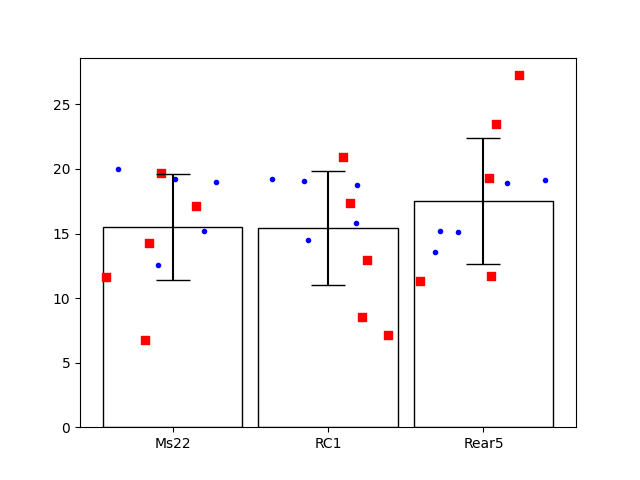
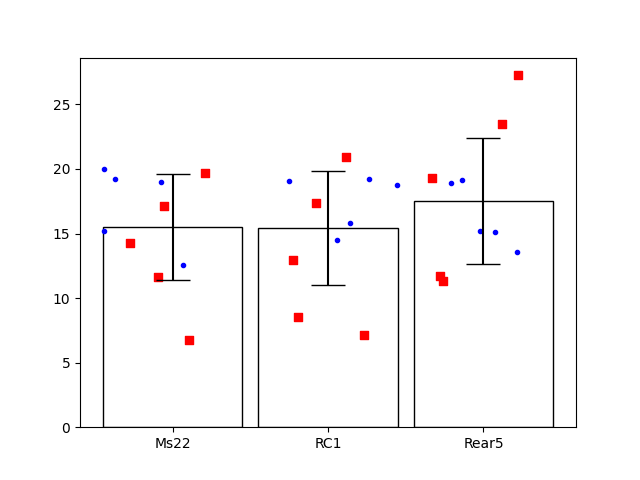
DLC udpate

diff --git a/DeepLabCut/DLC_jump_analysis/all_trackers/jump_analysis.py b/DeepLabCut/DLC_jump_analysis/all_trackers/jump_analysis.py
@@ -11,7 +11,7 @@ nose_directory = "csv_nose_files"
 rump_directory = "csv_rump_files"
 
 
-def main(full_path, relative_path, fname1, fname2):#, fname2):
+def main(full_path, relative_path, fname1, fname2):
     current_dir = os.getcwd()
     os.chdir(current_dir + '/' + relative_path)
 
@@ -45,14 +45,13 @@ def main(full_path, relative_path, fname1, fname2):#, fname2):
 
     w = .9 # bar width
     x1 = [1, 2]
-    x2 = [1, 2, 3]
+    x2 = [1, 2, 3, 4, 5, 6]
     colors1 = ['red','blue']
-    colors2 = ['red','blue', 'green']
-    #y = Ms22_new_df_values, RC1_new_df_values, Rear5_new_df_values
-    #y = single_trackers_df, combined_new_df_values, avg_new_df_values
+    colors2 = ['red','blue', 'green', 'purple', 'orange', 'brown']
     y1 = single_values, combined_values_wo_Rear5
     y2 = Ms22_values, RC1_values, Rear5_values
-    #y3 = single_trackers_df, combined_new_df_values, avg_new_df_values
+    y3 = Ms22_values, RC1_values, Rear5_values, single_values, combined_values, combined_values_wo_Rear5
+    #y4 = single_trackers_df, combined_new_df_values, avg_new_df_values
 
 
     #AVG THE VALUES FROM 3 SINGLE TRACKERS
@@ -63,41 +62,24 @@ def main(full_path, relative_path, fname1, fname2):#, fname2):
 
 
     figure1 = plt.figure(1)
-    plt.bar(x1,
-           height=[np.mean(yi) for yi in y1],
-           yerr=[np.std(yi) for yi in y1],    # error bars
+    plt.bar(x2,
+           height=[np.mean(yi) for yi in y3],
+           yerr=[np.std(yi) for yi in y3],    # error bars
            capsize=12, # error bar cap width in points
            width=w,    # bar width
-           #tick_label=["Rear5/Ms22", "Ms22", "combined"],#"RC1"],
-           tick_label=['single trackers', 'combined tracker'],
+           tick_label=['Ms22', 'RC1', 'Rear5', 'single', 'combined', 'combined_wo_Rear5'],
            color=(0,0,0,0),  # face color transparent
            edgecolor=['black'],
-         #ecolor=colors,    # error bar colors; setting this raises an error for whatever reason.
          )
 
-
-
-    # fig, ax = plt.subplots()
-    # ax.bar(x,
-    #        height=[np.mean(yi) for yi in y],
-    #        yerr=[np.std(yi) for yi in y],    # error bars
-    #        capsize=12, # error bar cap width in points
-    #        width=w,    # bar width
-    #        #tick_label=["Rear5/Ms22", "Ms22", "combined"],#"RC1"],
-    #        tick_label=['single trackers', 'combined tracker'],
-    #        color=(0,0,0,0),  # face color transparent
-    #        edgecolor=['black'],
-    #      #ecolor=colors,    # error bar colors; setting this raises an error for whatever reason.
-    #      )
-    
 
 
     for i in range(len(x1)):
         #distribute scatter randomly across whole width of bar
         a = y1[i]
         #print(y)
-        plt.scatter(x1[i] + np.random.random(a[0:5].size) * w - w / 2, a[0:5], color=colors1[1], marker='.') #circle marker = Ms22
-        plt.scatter(x1[i] + np.random.random(a[5:10].size) * w - w / 2, a[5:10], color=colors1[0], marker = "s") #square marker = RC1
+        plt.scatter(x1[i] + np.random.random(a[0:5].size) * w - w / 2, a[0:5], color=colors2[1], marker='.') #circle marker = Ms22
+        plt.scatter(x1[i] + np.random.random(a[5:10].size) * w - w / 2, a[5:10], color=colors2[0], marker = "s") #square marker = RC1
         #plt.scatter(x1[i] + np.random.random(a[10:15].size) * w - w / 2, a[10:15], color=colors1[0], marker = "*") #star marker = Rear5
 
     
@@ -108,31 +90,29 @@ def main(full_path, relative_path, fname1, fname2):#, fname2):
 
 
 
-    figure2 = plt.figure(2)
-    plt.bar(x2,
-           height=[np.mean(yi) for yi in y2],
-           yerr=[np.std(yi) for yi in y2],    # error bars
-           capsize=12, # error bar cap width in points
-           width=w,    # bar width
-           #tick_label=["Rear5/Ms22", "Ms22", "combined"],#"RC1"],
-           tick_label=['Ms22', 'RC1', 'Rear5'],
-           color=(0,0,0,0),  # face color transparent
-           edgecolor=['black'],
-         #ecolor=colors,    # error bar colors; setting this raises an error for whatever reason.
-         )
+    # figure2 = plt.figure(2)
+    # plt.bar(x2,
+    #        height=[np.mean(yi) for yi in y2],
+    #        yerr=[np.std(yi) for yi in y2],    # error bars
+    #        capsize=12, # error bar cap width in points
+    #        width=w,    # bar width
+    #        tick_label=['Ms22', 'RC1', 'Rear5'],
+    #        color=(0,0,0,0),  # face color transparent
+    #        edgecolor=['black'],
+    #      )
     
 
-    for i in range(len(x2)):
-        #distribute scatter randomly across whole width of bar
-        b = y2[i]
-        #print(y)
-        plt.scatter(x2[i] + np.random.random(b[0:5].size) * w - w / 2, b[0:5], color=colors2[1], marker='.') #circle marker = Ms22
-        plt.scatter(x2[i] + np.random.random(b[5:10].size) * w - w / 2, b[5:10], color=colors2[0], marker = "s") #square marker = RC1
+    # for i in range(len(x2)):
+    #     #distribute scatter randomly across whole width of bar
+    #     b = y2[i]
+    #     #print(y)
+    #     plt.scatter(x2[i] + np.random.random(b[0:5].size) * w - w / 2, b[0:5], color=colors2[1], marker='.') #circle marker = Ms22
+    #     plt.scatter(x2[i] + np.random.random(b[5:10].size) * w - w / 2, b[5:10], color=colors2[0], marker = "s") #square marker = RC1
 
   
-    plt.savefig(fname2, dpi=100)
-    plt.show()
-    plt.close()
+    # plt.savefig(fname2, dpi=100)
+    # plt.show()
+    # plt.close()
 
     
     
@@ -142,34 +122,34 @@ def main(full_path, relative_path, fname1, fname2):#, fname2):
     #                 box.width, box.height * 0.9])
     
 
-    # # # Put a legend below current axis
-    # #legend_colors = {'females':'red', 'males':'blue'}
-    # #labels = list(legend_colors.keys()) 
-    # #handles = [plt.Rectangle((0,0),1,1, color=legend_colors[labels]) for label in labels]
+    #LEGEND:
+    #legend_colors = {'females':'red', 'males':'blue'}
+    #labels = list(legend_colors.keys()) 
+    #handles = [plt.Rectangle((0,0),1,1, color=legend_colors[labels]) for label in labels]
 
    
-    # #ax.legend(loc='upper center', bbox_to_anchor=(0.5, -0.15),
-    # #        fancybox=False, shadow=True, ncol=5)
+    #ax.legend(loc='upper center', bbox_to_anchor=(0.5, -0.15),
+    #        fancybox=False, shadow=True, ncol=5)
 
     # Ms22 = mlines.Line2D([], [], color='blue', marker='.', linestyle='None', markersize=10, label='Ms22')
     # RC1 = mlines.Line2D([], [], color='red', marker='s', linestyle='None', markersize=10, label='RC1')
     # Rear5 = mlines.Line2D([], [], color='red', marker='*', linestyle='None', markersize=10, label='Rear5')
     # Rear1 = mlines.Line2D([], [], color='blue', marker='^', linestyle='None', markersize=10, label='Rear1')
-    # #female = mlines.Line2D([], [], color='red', marker='^', linestyle='None', markersize=10, label='Rear1')
-    # #male = mlines.Line2D([], [], color='blue', marker='^', linestyle='None', markersize=10, label='Rear1')
-    # #female  = mlines.Line2D([], [], marker='hello', linestyle='None', label='female')
+    #female = mlines.Line2D([], [], color='red', marker='^', linestyle='None', markersize=10, label='Rear1')
+    #male = mlines.Line2D([], [], color='blue', marker='^', linestyle='None', markersize=10, label='Rear1')
+    #female  = mlines.Line2D([], [], marker='hello', linestyle='None', label='female')
 
-    # #ax.legend(handles=[Ms22, RC1, Rear5, Rear1, plt.Rectangle((0,0),1,1, color='red'), plt.Rectangle((0,0),1,1, color='blue')])
-    # #legend = ax.legend(handles=[Ms22, RC1, Rear5, Rear1], (handletextpad=-2.0, handlelength=0))
+    #ax.legend(handles=[Ms22, RC1, Rear5, Rear1, plt.Rectangle((0,0),1,1, color='red'), plt.Rectangle((0,0),1,1, color='blue')])
+    #legend = ax.legend(handles=[Ms22, RC1, Rear5, Rear1], (handletextpad=-2.0, handlelength=0))
 
-    # # ax.annotate('R: female',xy=(15, -35), xycoords='axes points',
-    # #         size=10, ha='center', va='bottom',
-    # #         bbox=dict(boxstyle='square', fc='w'))
+    # ax.annotate('R: female',xy=(15, -35), xycoords='axes points',
+    #         size=10, ha='center', va='bottom',
+    #         bbox=dict(boxstyle='square', fc='w'))
 
-    # # color_l = ['red', 'blue']
-    # # for n, text in enumerate(legend.get_texts):
-    # #     print( n, text)
-    # #     text.set_color( color_l[n] )
+    # color_l = ['red', 'blue']
+    # for n, text in enumerate(legend.get_texts):
+    #     print( n, text)
+    #     text.set_color( color_l[n] )
 
     # plt.title("Performance of Animal Models")
     # plt.xlabel("Animal Model")
